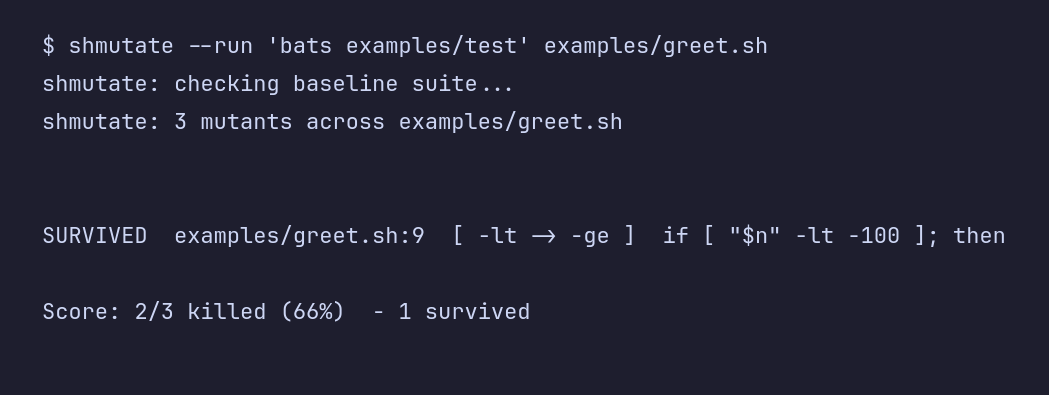
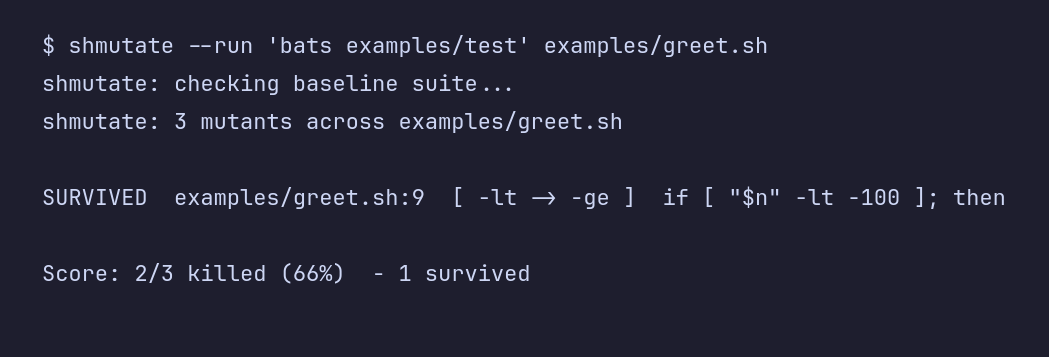
tidy summary spacing, refresh screenshot

diff --git a/README.md b/README.md
@@ -1,6 +1,6 @@
 # shmutate
 
-[![CI](https://github.com/darettau/shmutate/actions/workflows/ci.yml/badge.svg)](https://github.com/darettau/shmutate/actions/workflows/ci.yml)
+[![CI](https://github.com/darettau/shmutate/actions/workflows/ci.yml/badge.svg)](https://github.com/darettau/shmutate/actions/workflows/ci.yml) [![license](https://img.shields.io/badge/license-MIT-yellow.svg)](LICENSE)
 
 ![demo](docs/demo.png)
 
